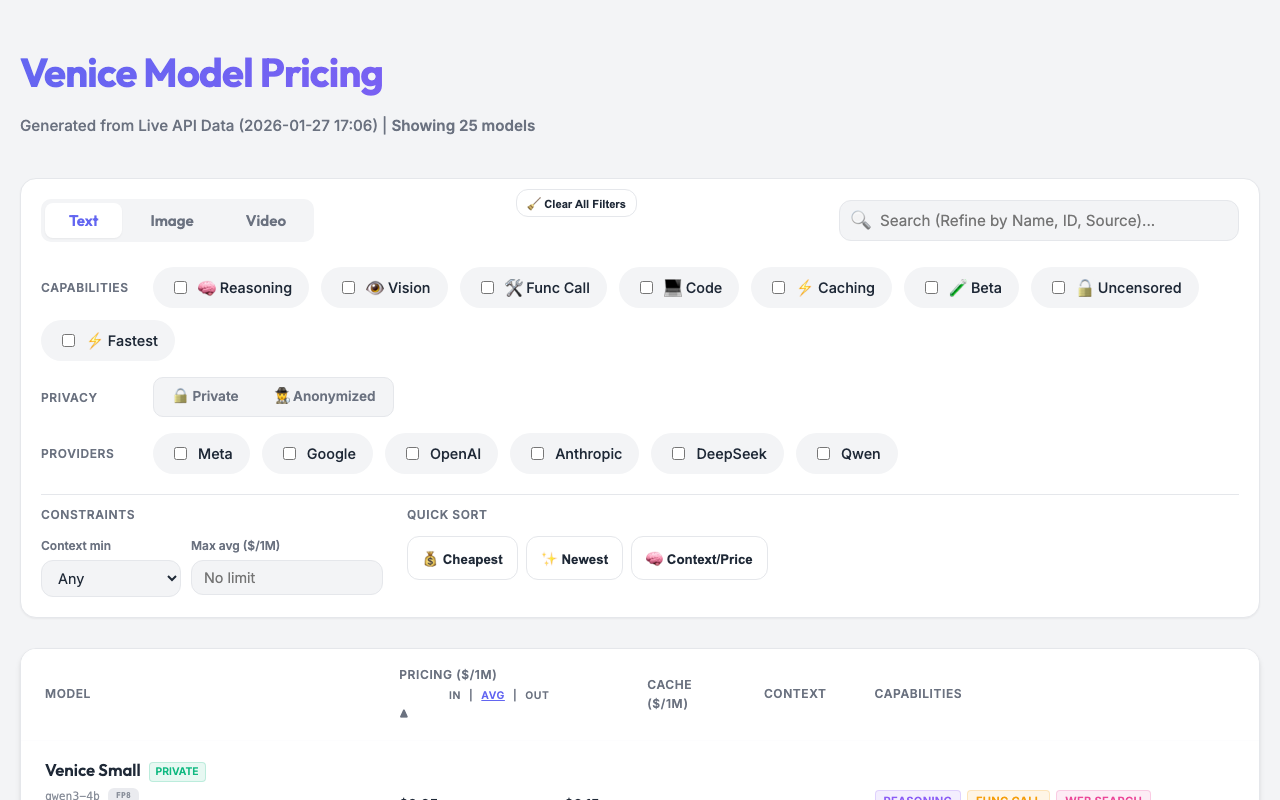
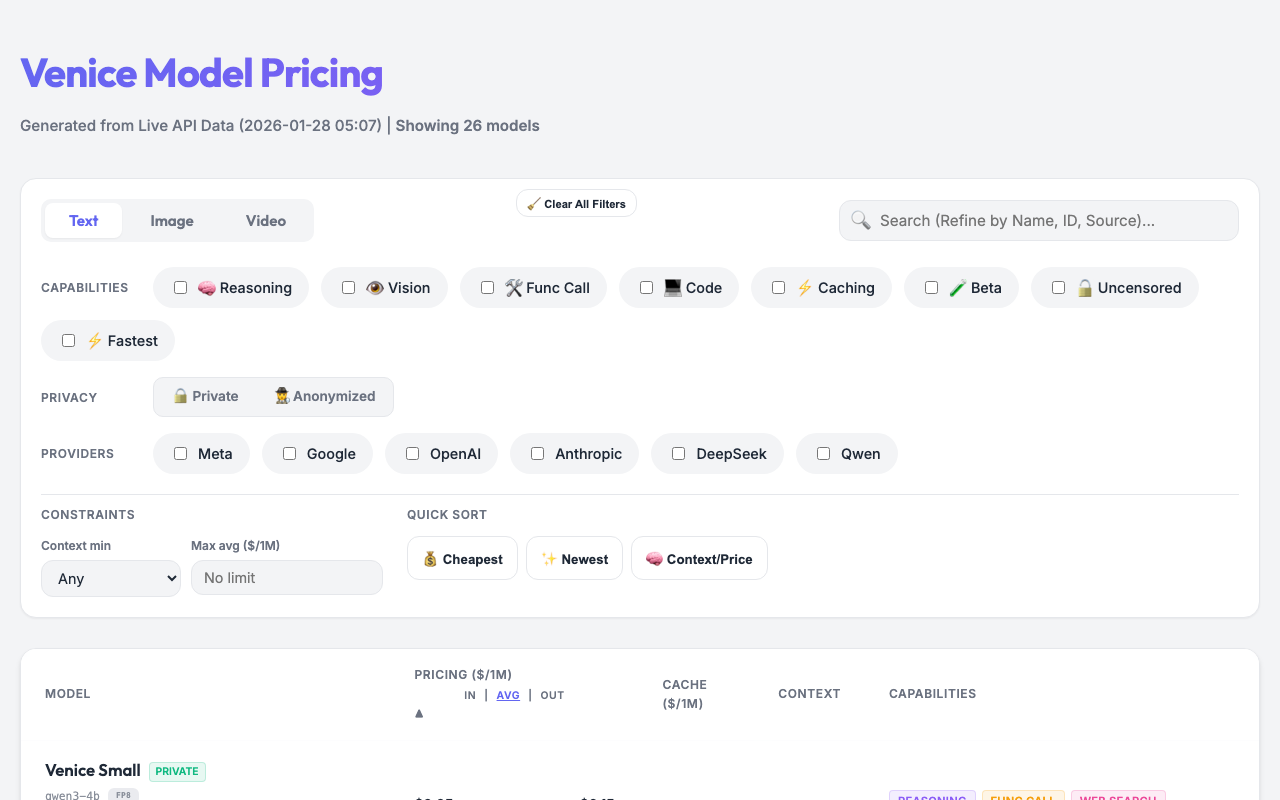
chore: automated pricing update (2026-01-28 05:07:21)
🆕 Added Models (1): kimi-k2-5

diff --git a/docs/index.html b/docs/index.html
@@ -745,7 +745,7 @@
     <div class="container">
         <header>
             <h1>Venice Model Pricing</h1>
-            <div class="meta">Generated from Live API Data (2026-01-27 17:06)</div>
+            <div class="meta">Generated from Live API Data (2026-01-28 05:07)</div>
         </header>
 
         <div class="controls">
@@ -1985,6 +1985,57 @@
         },
         "description": "Grok Code Fast 1 is a speedy and economical reasoning model that excels at agentic coding",
         "name": "Grok Code Fast 1",
+        "modelSource": "",
+        "offline": false,
+        "privacy": "anonymized",
+        "traits": []
+      },
+      "object": "model",
+      "owned_by": "venice.ai",
+      "type": "text"
+    },
+    {
+      "created": 1769548800,
+      "id": "kimi-k2-5",
+      "model_spec": {
+        "betaModel": true,
+        "pricing": {
+          "input": {
+            "usd": 0.75,
+            "diem": 0.75
+          },
+          "cache_input": {
+            "usd": 0.125,
+            "diem": 0.125
+          },
+          "output": {
+            "usd": 3.75,
+            "diem": 3.75
+          }
+        },
+        "availableContextTokens": 262144,
+        "capabilities": {
+          "optimizedForCode": true,
+          "quantization": "not-available",
+          "supportsAudioInput": false,
+          "supportsFunctionCalling": true,
+          "supportsLogProbs": true,
+          "supportsReasoning": true,
+          "supportsResponseSchema": true,
+          "supportsVideoInput": false,
+          "supportsVision": true,
+          "supportsWebSearch": true
+        },
+        "constraints": {
+          "temperature": {
+            "default": 0.7
+          },
+          "top_p": {
+            "default": 0.9
+          }
+        },
+        "description": "Kimi K2.5 is Moonshot AIs most advanced open reasoning model, featuring trillion-parameter Mixture-of-Experts architecture with 32B active parameters and 256K context windows.",
+        "name": "Kimi K2.5",
         "modelSource": "",
         "offline": false,
         "privacy": "anonymized",
